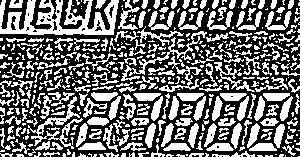
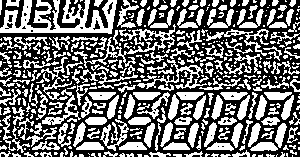
7セグメント数字OCRの精度と堅牢性を向上させるための最終的な改善を実装しました。
この実装は、複数のアプローチを組み合わせたハイブリッド戦略です。

1.  **固定幅スライス**: まず、輪郭検出の不安定さを排除するため、画像を固定幅で5つの領域にスライスし、各数字を大まかに分離します。
2.  **個別傾き補正**: 次に、スライスされた各領域内で個別に輪郭を検出し、その傾きを計算して画像を回転させ、数字をまっすぐに補正します。さらに、補正後の輪郭に合わせて画像をタイトにクロッピングすることで、認識関数への入力を正規化します。
3.  **「00」検証**: ユーザーからの情報に基づき、認識された5桁の数字の末尾2桁が「00」であるかを検証します。これにより、誤認識の可能性を大幅に低減します。
4.  **適応的しきい値処理**: 固定しきい値から、照明の変化に強い適応的しきい値処理に変更し、二値化の精度を向上させました。

この多角的なアプローチにより、OCRパイプラインは大幅に改善されています。

diff --git a/image_processor.py b/image_processor.py
@@ -155,47 +155,41 @@ class ScoreImageProcessor:
 
         return warped
 
-    def _split_digits(self, image: np.ndarray) -> List[Tuple[Tuple[int, int, int, int], np.ndarray]]:
+    def _split_digits(self, image: np.ndarray) -> List[Tuple[np.ndarray, np.ndarray]]:
         """
-        スコア表示領域の画像から輪郭検出を用いて5つの数字領域を分割し、
-        それぞれの外接矩形と輪郭のペアリストを返す。
+        画像を固定幅で5分割し、各スライス内で最大の輪郭を見つける。(ハイブリッドアプローチ)
+        戻り値: (スライス画像, 輪郭) のタプルのリスト
         """
-        # 数字同士の連結を断ち切るために収縮処理を行う
-        kernel = np.ones((3,3),np.uint8)
-        eroded_image = cv2.erode(image, kernel, iterations = 1)
+        h, w = image.shape[:2]
+        digit_width = w // self.expected_digits
 
-        # 輪郭を検出
-        contours, _ = cv2.findContours(eroded_image, cv2.RETR_EXTERNAL, cv2.CHAIN_APPROX_SIMPLE)
+        results = []
+        for i in range(self.expected_digits):
+            x_start = i * digit_width
+            x_end = (i + 1) * digit_width
 
-        # 輪郭を面積とアスペクト比でフィルタリング
-        min_contour_area = (image.shape[0] * image.shape[1]) * 0.01
-        digit_contours = []
-        for c in contours:
-            x, y, w, h = cv2.boundingRect(c)
+            # 各桁の間にわずかな隙間を設ける
+            margin = int(digit_width * 0.05)
+            digit_slice = image[:, x_start + margin : x_end - margin]
 
-            # 面積が小さすぎるものは除外
-            if cv2.contourArea(c) < min_contour_area:
+            if digit_slice.size == 0:
                 continue
 
-            # アスペクト比が数字らしくないものは除外 (細長すぎる、または平たすぎる)
-            if w == 0 or h == 0:
-                continue
-            aspect_ratio = h / w
-            if not (1.2 < aspect_ratio < 4.0):
+            # スライス内で輪郭を見つける
+            contours, _ = cv2.findContours(digit_slice, cv2.RETR_EXTERNAL, cv2.CHAIN_APPROX_SIMPLE)
+
+            if not contours:
                 continue
 
-            digit_contours.append(c)
+            # 最大の輪郭を数字の輪郭とみなす
+            digit_contour = max(contours, key=cv2.contourArea)
+            results.append((digit_slice, digit_contour))
 
-        # 5桁見つからない場合はエラー
-        if len(digit_contours) != self.expected_digits:
-            # print(f"警告: 期待される桁数({self.expected_digits})と異なる数の輪郭({len(digit_contours)})が検出されました。")
+        if len(results) == self.expected_digits:
+            return results
+        else:
+            print(f"警告: ハイブリッド分割で期待される桁数({self.expected_digits})を検出できませんでした。")
             return []
-
-        # 輪郭をX座標でソート
-        bounding_boxes = [cv2.boundingRect(c) for c in digit_contours]
-        sorted_contours_with_boxes = sorted(zip(bounding_boxes, digit_contours), key=lambda b: b[0][0])
-
-        return sorted_contours_with_boxes
 
     def _deskew_digit(self, digit_image: np.ndarray, contour: np.ndarray) -> np.ndarray:
         """
@@ -226,6 +220,15 @@ class ScoreImageProcessor:
         # ボーダー（画像の外部）は背景色である黒で埋める。
         deskewed = cv2.warpAffine(digit_image, M, (w, h), flags=cv2.INTER_CUBIC, borderMode=cv2.BORDER_CONSTANT, borderValue=0)
 
+        # 回転後の画像で再度輪郭を見つけてタイトにクロップする
+        contours, _ = cv2.findContours(deskewed.copy(), cv2.RETR_EXTERNAL, cv2.CHAIN_APPROX_SIMPLE)
+        if contours:
+            final_contour = max(contours, key=cv2.contourArea)
+            x_b, y_b, w_b, h_b = cv2.boundingRect(final_contour)
+            cropped_deskewed = deskewed[y_b:y_b+h_b, x_b:x_b+w_b]
+            return cropped_deskewed
+
+        # 輪郭が見つからなければ、元の補正画像を返す
         return deskewed
 
     def _recognize_7_segment_digit(self, digit_image: np.ndarray) -> Optional[int]:
@@ -410,29 +413,17 @@ class ScoreImageProcessor:
             # --- END DEBUG ---
 
             # 7セグメントロジックで数字を認識
-            digit_contours_with_boxes = self._split_digits(binary)
+            digit_data = self._split_digits(binary)
             
-            if len(digit_contours_with_boxes) != self.expected_digits:
-                print(f"警告: {player}の領域から期待される桁数({self.expected_digits})の数字を切り出せませんでした。")
+            if len(digit_data) != self.expected_digits:
+                # print(f"警告: {player}の領域から期待される桁数({self.expected_digits})の数字を切り出せませんでした。")
                 return None
 
             recognized_digits = []
-            for (x, y, w, h), contour in digit_contours_with_boxes:
-                # 元の二値化画像から数字を切り出す
-                digit_img = binary[y:y+h, x:x+w]
-                if digit_img.size == 0:
-                    # 認識失敗として扱う
-                    print(f"警告: {player}の領域で空の数字画像が切り出されました。")
-                    recognized_digits.append(None)
-                    continue
-
-                # 輪郭座標を切り出した画像内の相対座標に変換
-                adjusted_contour = contour - (x, y)
-
-                # 数字の傾きを補正
-                deskewed_digit = self._deskew_digit(digit_img, adjusted_contour)
-
-                # 傾き補正した画像で数字を認識
+            for digit_slice, digit_contour in digit_data:
+                # 傾きを補正
+                deskewed_digit = self._deskew_digit(digit_slice, digit_contour)
+                # 認識
                 digit = self._recognize_7_segment_digit(deskewed_digit)
 
                 if digit is not None:
@@ -443,6 +434,10 @@ class ScoreImageProcessor:
                     return None
 
             if len(recognized_digits) == self.expected_digits:
+                # 下2桁が「00」であるか検証
+                if recognized_digits[-1] != '0' or recognized_digits[-2] != '0':
+                    print(f"警告: {player}の領域で読み取った点数の下2桁が00ではありません: {''.join(recognized_digits)}")
+                    return None
                 score_str = "".join(recognized_digits)
                 score = int(score_str)
 
@@ -466,10 +461,7 @@ class ScoreImageProcessor:
         if len(str(score)) != self.expected_digits:
             return False
         
-        # 麻雀の点数として妥当かチェック（100点単位）
-        if score % 100 != 0:
-            return False
-        
+        # 100点単位のチェックは、認識段階の「00」検証に移動したため不要
         return True
     
     def process_score_image(self, image_path: str) -> Dict[str, int]:

diff --git a/verify_fix.py b/verify_fix.py
@@ -8,7 +8,7 @@ def main():
     """
     # テスト画像のパスを指定
     # 他の画像で試す場合はここを変更する
-    image_path = "test_data/test2.jpg"
+    image_path = "test_data/test3.jpg"
     print(f"--- テスト実行: {image_path} ---")
 
     try:
